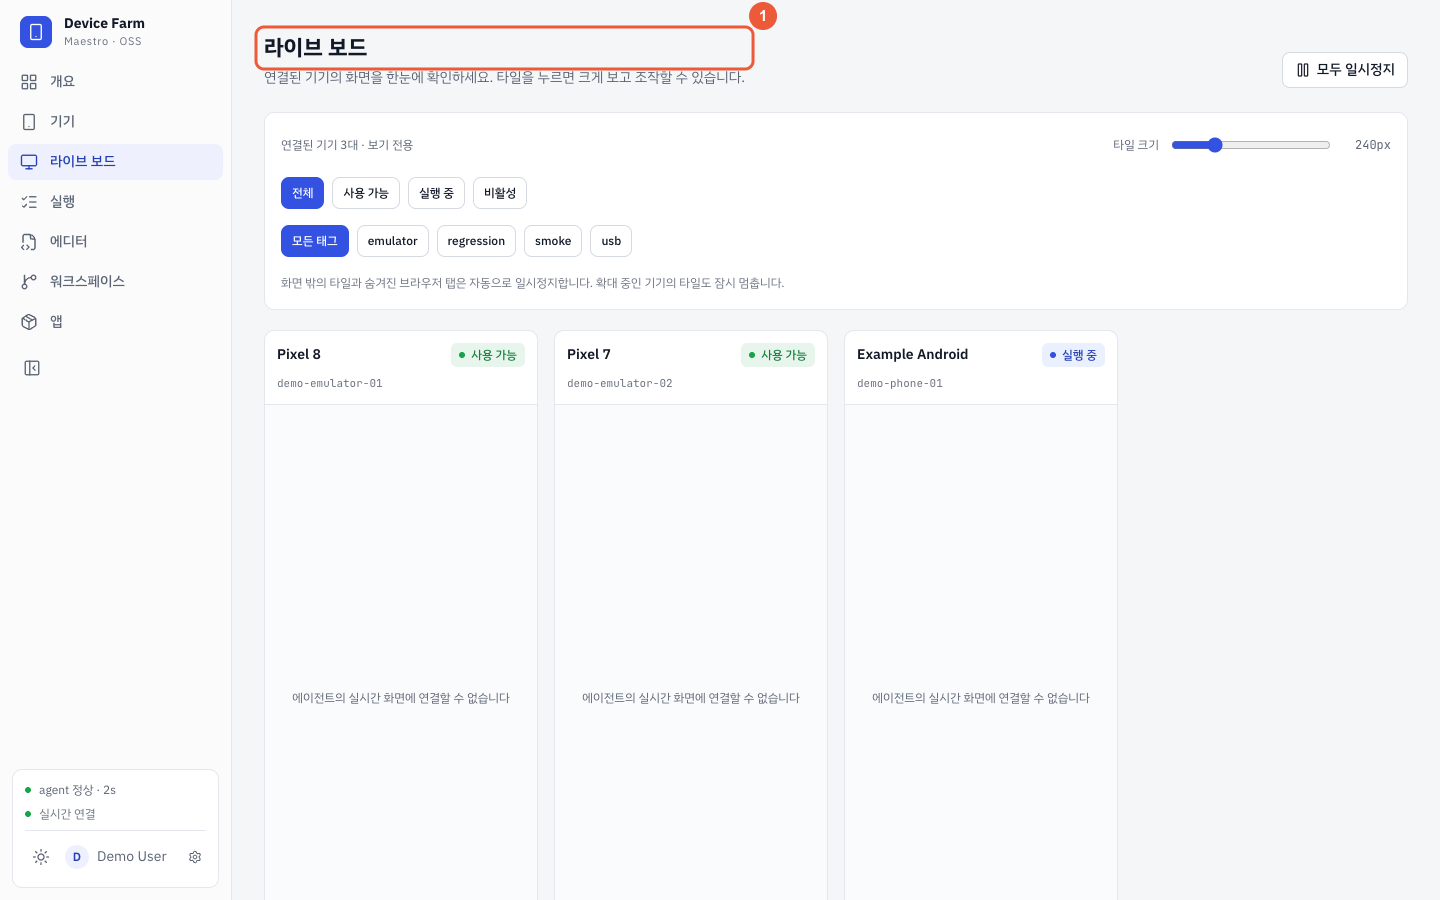
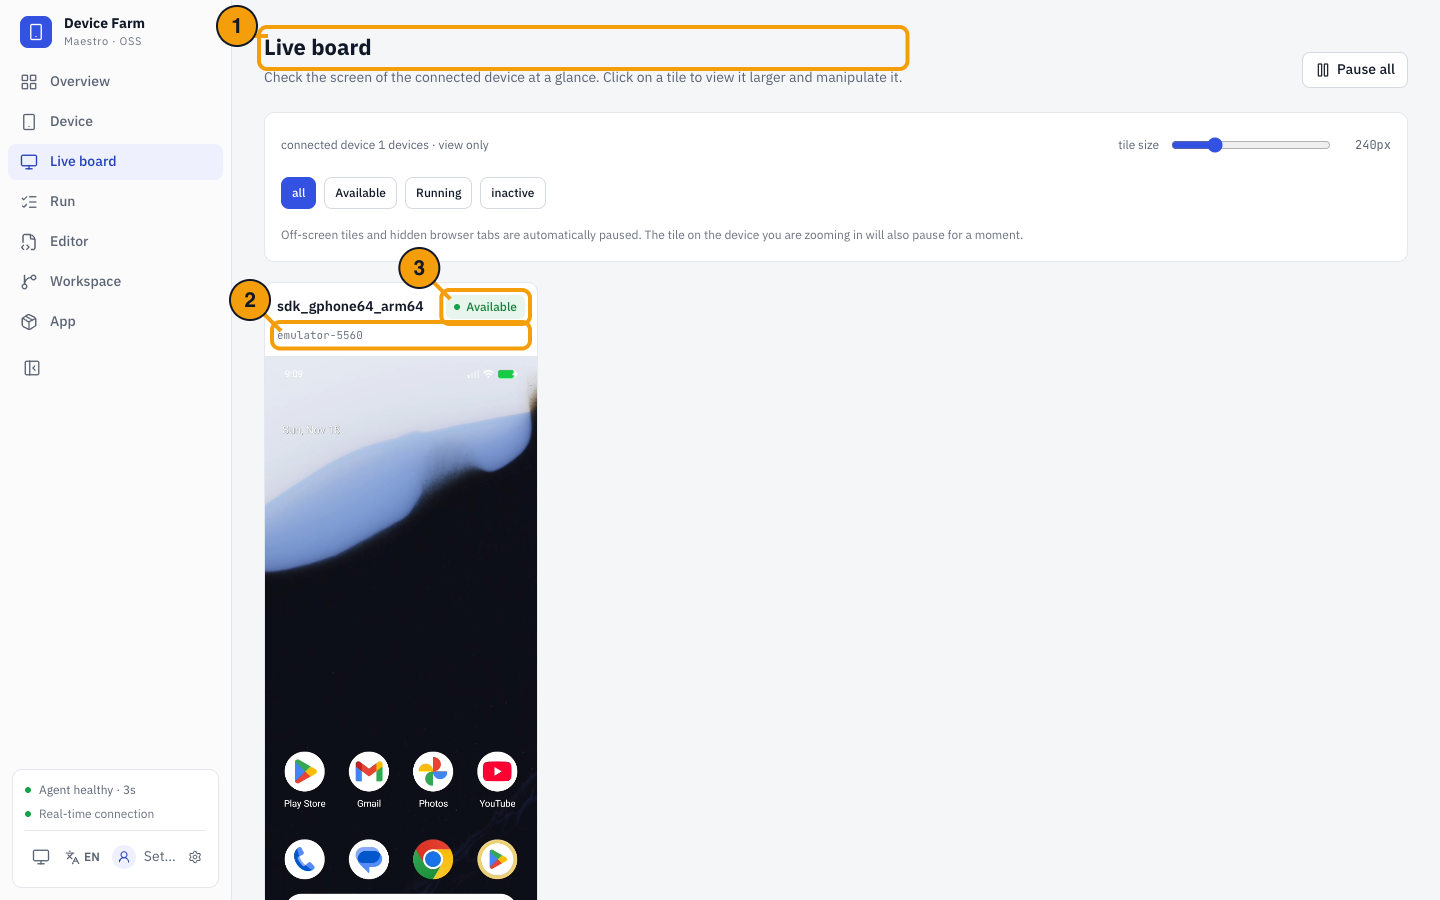
Capture English demo media

diff --git a/tools/demo/manage.py b/tools/demo/manage.py
@@ -146,7 +146,8 @@ def demo_env(s: dict) -> dict[str, str]:
         "FARM_PUBLIC_URL": s["api_url"],
         "FARM_GIT_REMOTE_TEMPLATE": "file://" + str(Path(s["data_dir"], "remotes", "{repo}.git")),
         "FARM_GIT_POLL_SEC": "0",
-        "FARM_CODEX_BIN": "mdf-demo-ai-disabled",
+        "FARM_CODEX_BIN": (shutil.which("codex") or "mdf-demo-ai-disabled")
+        if env.get("DEMO_ENABLE_AI") == "1" else "mdf-demo-ai-disabled",
         "FARM_API_URL": s["api_url"],
     })
     return env
@@ -257,6 +258,28 @@ def stop() -> None:
     print("Demo services stopped; AVD retained")
 
 
+def agent_stop() -> None:
+    s = state()
+    stop_pid(s.get("guard_pid"))
+    s["guard_pid"] = None
+    save_state(s)
+    print("Demo agent stopped")
+
+
+def agent_start() -> None:
+    s = state()
+    assert_isolated()
+    if alive(s.get("guard_pid")):
+        return
+    s["guard_pid"] = spawn([sys.executable, str(Path(__file__).resolve()), "guard"],
+                           demo_env(s), Path(s["data_dir"]) / "guard.out")
+    save_state(s)
+    time.sleep(2)
+    if not alive(s["guard_pid"]):
+        raise RuntimeError("Agent supervisor exited; see guard.out")
+    print("Demo agent started")
+
+
 def refresh() -> None:
     """Reload merged server and dashboard code without discarding demo history."""
     s = state()
@@ -330,6 +353,7 @@ def seed() -> None:
         for name in ("smoke.yaml", "navigation.yaml", "search.yaml"):
             shutil.copyfile(ROOT / "examples/flows" / name, flows / name)
         (flows / "smoke.yaml").write_text("appId: com.android.settings\n---\n- launchApp\n")
+        (flows / "my-flow.yaml").write_text("appId: com.android.settings\n---\n- launchApp\n")
         (flows / "expected-failure.yaml").write_text(
             "appId: com.android.settings\n---\n- launchApp\n"
             "- assertVisible: 'This screen intentionally does not exist'\n")
@@ -337,10 +361,18 @@ def seed() -> None:
         git("commit", "-m", "Add Android Settings examples", cwd=work)
         git("remote", "add", "origin", str(remote), cwd=work)
         git("push", "origin", "main", cwd=work)
+    elif work.exists() and not (work / "flows/my-flow.yaml").exists():
+        (work / "flows/my-flow.yaml").write_text("appId: com.android.settings\n---\n- launchApp\n")
+        git("add", ".", cwd=work)
+        git("commit", "-m", "Add an editable example flow", cwd=work)
+        git("push", "origin", "main", cwd=work)
     existing = api("GET", "/workspaces")
-    if not any(row["name"] == "settings-demo" for row in existing):
-        api("POST", "/workspaces", json.dumps({"name": "settings-demo", "repo": "demo/settings",
-             "branch": "main", "path": "flows", "default_app_package": "com.android.settings"}).encode())
+    for name in ("settings-demo", "example-app"):
+        if not any(row["name"] == name for row in existing):
+            api("POST", "/workspaces", json.dumps({"name": name, "repo": "demo/settings",
+                 "branch": "main", "path": "flows", "default_app_package": "com.android.settings"}).encode())
+        else:
+            api("POST", f"/workspaces/{name}/sync", b"{}")
     apps = api("GET", "/apps?package=com.android.settings")
     if apps:
         app = apps[0]
@@ -356,7 +388,7 @@ def seed() -> None:
         apk.unlink()
     s["app_id"] = app["id"]
     save_state(s)
-    print(json.dumps({"workspace": "settings-demo", "app_id": s["app_id"]}))
+    print(json.dumps({"workspace": "example-app", "app_id": s["app_id"]}))
 
 
 def submit(flow: str) -> dict:
@@ -429,7 +461,8 @@ def verify() -> None:
 
 def main() -> None:
     parser = argparse.ArgumentParser(description=__doc__)
-    parser.add_argument("command", choices=("start", "stop", "refresh", "seed", "verify", "status", "guard"))
+    parser.add_argument("command", choices=("start", "stop", "refresh", "agent-stop", "agent-start",
+                                            "seed", "verify", "status", "guard"))
     args = parser.parse_args()
     try:
         if args.command == "start":
@@ -438,6 +471,10 @@ def main() -> None:
             stop()
         elif args.command == "refresh":
             refresh()
+        elif args.command == "agent-stop":
+            agent_stop()
+        elif args.command == "agent-start":
+            agent_start()
         elif args.command == "seed":
             seed()
         elif args.command == "verify":

diff --git a/tools/demo/README.md b/tools/demo/README.md
@@ -29,6 +29,12 @@ device is listed.
 After merging dashboard or server changes, run `python3 tools/demo/manage.py
 refresh` to rebuild and restart the services while retaining the same demo
 history. It checks the adb inventory again before restarting the agent.
+Set `DEMO_ENABLE_AI=1` for that refresh only when the local Codex CLI is
+already authenticated and you need to capture the idle AI panel. The harness
+does not send an AI request.
+Use `agent-stop` and `agent-start` to capture the dashboard's offline and
+connected states without discarding the run history. `agent-start` enforces
+the same adb inventory rule as a full start.
 
 `seed` creates a local Git remote with the Android Settings example flows,
 registers it as `settings-demo`, and uploads the Settings APK from the demo
@@ -45,3 +51,21 @@ Selectors must match the visible dashboard at the 1440 × 900 viewport. The
 capture script fails if a selector is missing, a live canvas has no distinct
 device pixels, or a GIF reaches 6 MB. GIFs are converted from Playwright
 video using an ffmpeg palette at 1200 pixels wide and 12 fps.
+
+`shotlist.json` contains the full documentation capture set. Capture the
+connected screenshots and GIFs while the agent runs, then stop only the agent
+for the offline screenshots:
+
+```sh
+DEMO_CAPTURE_BATCH=connected node tools/demo/capture.mjs tools/demo/shotlist.json docs/assets
+DEMO_CAPTURE_BATCH=gifs node tools/demo/capture.mjs tools/demo/shotlist.json docs/assets
+python3 tools/demo/manage.py agent-stop
+DEMO_CAPTURE_BATCH=offline node tools/demo/capture.mjs tools/demo/shotlist.json docs/assets
+```
+
+Set `DEMO_LANG=ko` and change the output directory to `docs/assets/ko` to
+capture the Korean set. The script sets the dashboard language and browser
+locale in a fresh light-theme context. `DEMO_CAPTURE_NAMES` accepts a
+comma-separated list of filenames for a targeted retry. Restart the agent
+with `python3 tools/demo/manage.py agent-start` after confirming that
+`adb devices` lists only `emulator-5560`.
